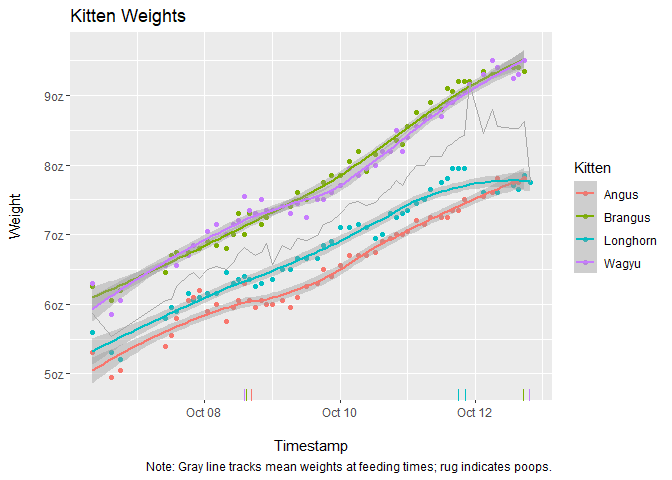
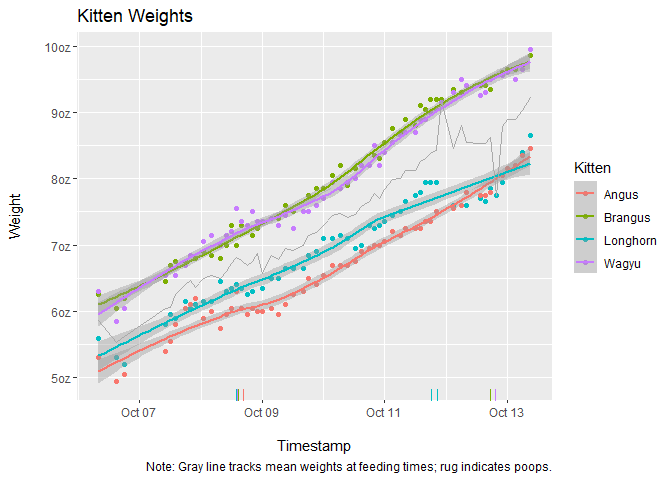
Feeding update

diff --git a/readme.md b/readme.md
@@ -44,7 +44,7 @@ Current Avg. Weight
 
 <td style="text-align:left;">
 
-8.66oz
+9.22oz
 
 </td>
 
@@ -76,7 +76,7 @@ Avg. Gain per Feeding per Kitty
 
 <td style="text-align:left;">
 
-0.06oz
+0.07oz
 
 </td>
 
@@ -92,7 +92,7 @@ Avg. Gain per Day per Kitty
 
 <td style="text-align:left;">
 
-0.44oz
+0.45oz
 
 </td>
 
@@ -108,7 +108,7 @@ Avg. Time Between Feedings
 
 <td style="text-align:left;">
 
-2H 48M
+2H 47M
 
 </td>
 
@@ -124,7 +124,7 @@ Expected Avg. Weight at 3 Years of Age
 
 <td style="text-align:left;">
 
-33lb 9oz
+34lb 1oz
 
 </td>
 
